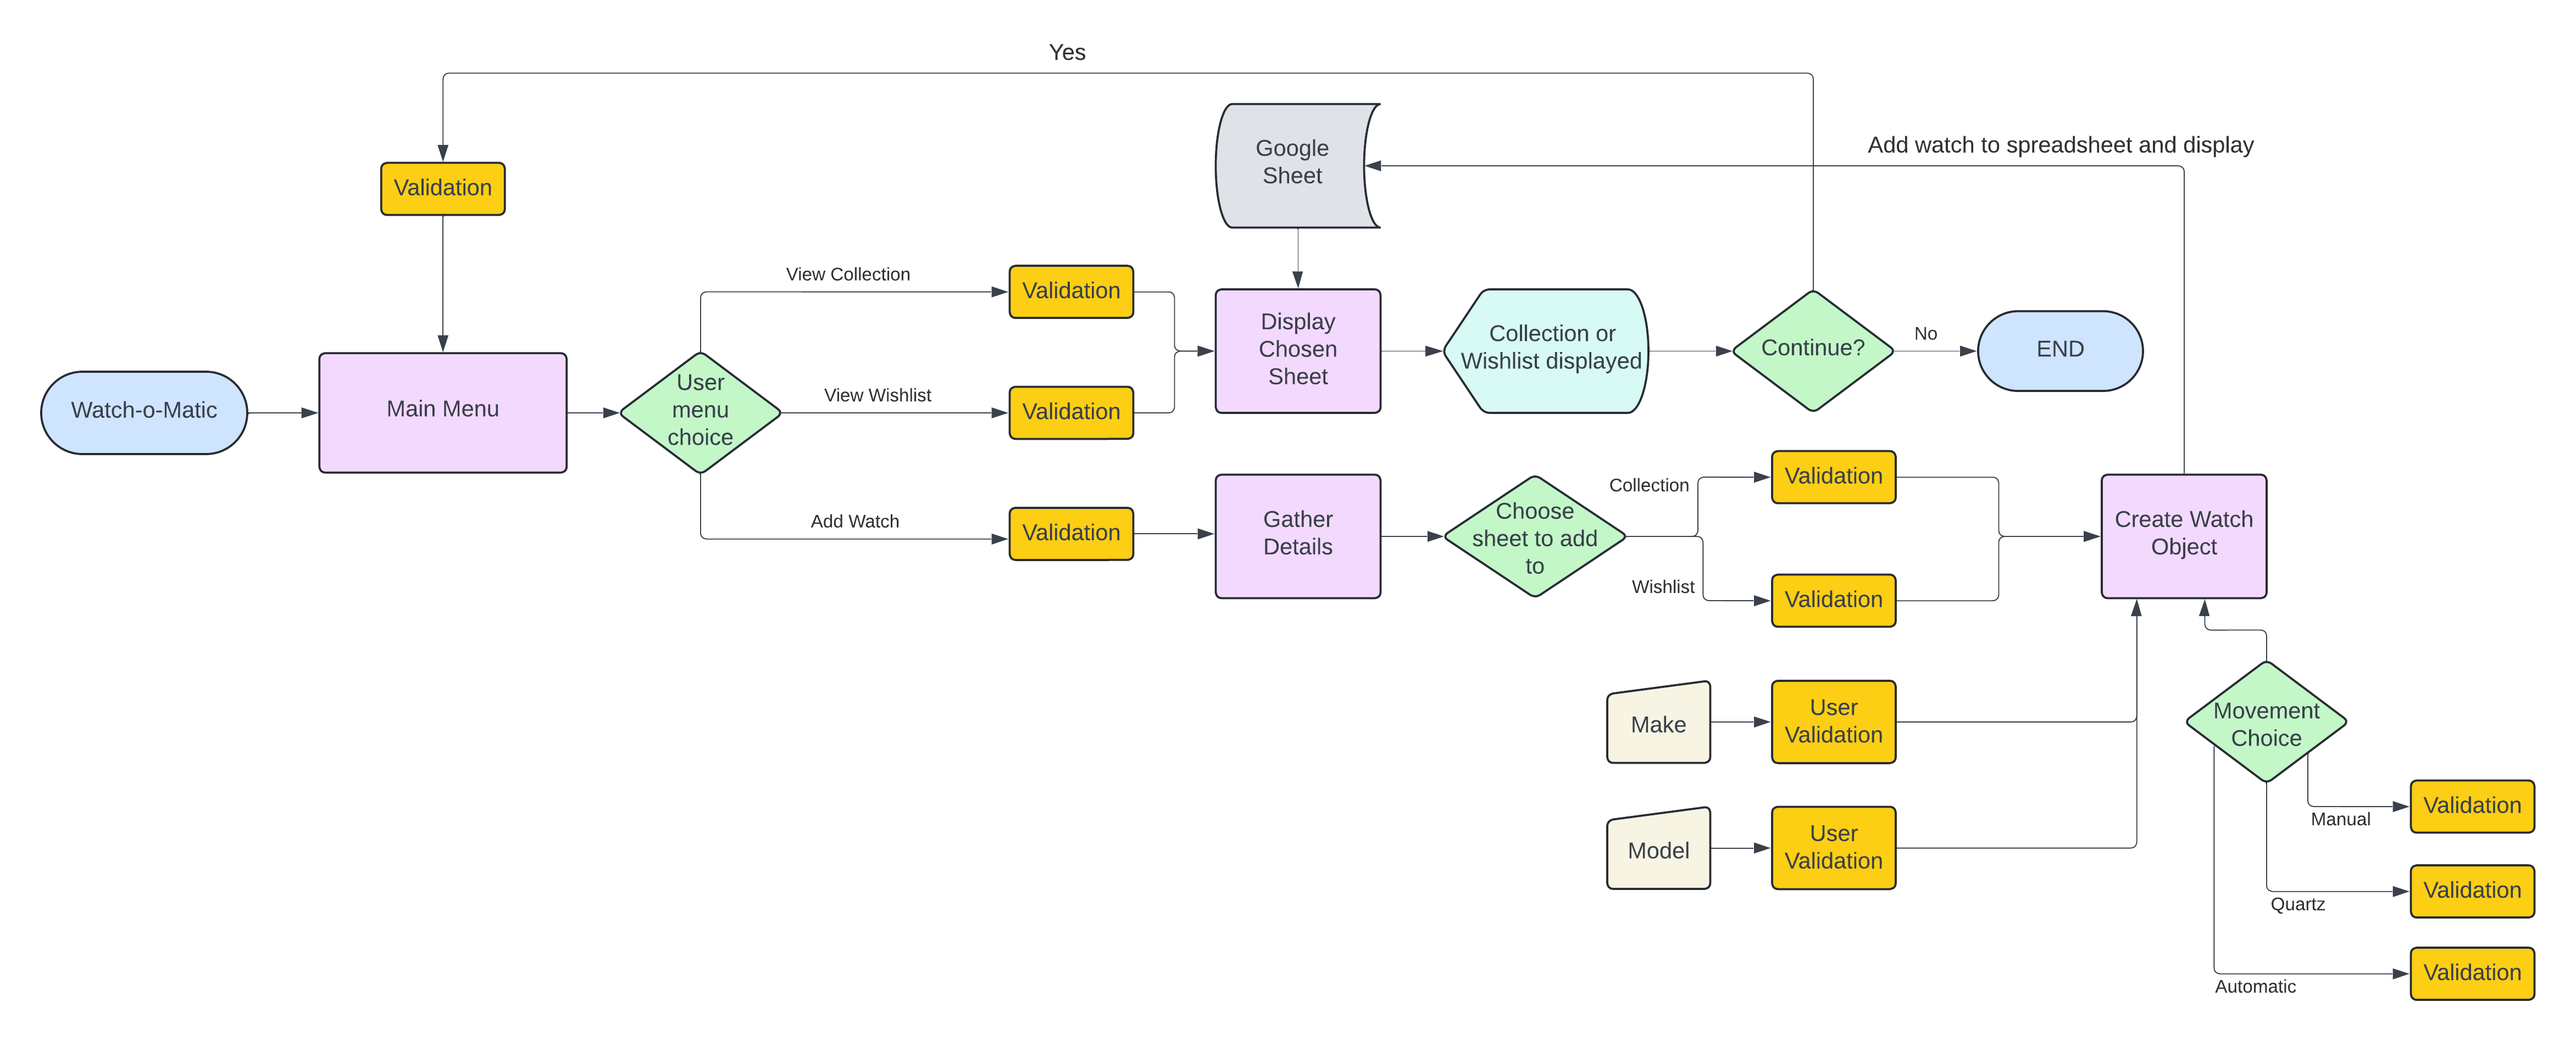
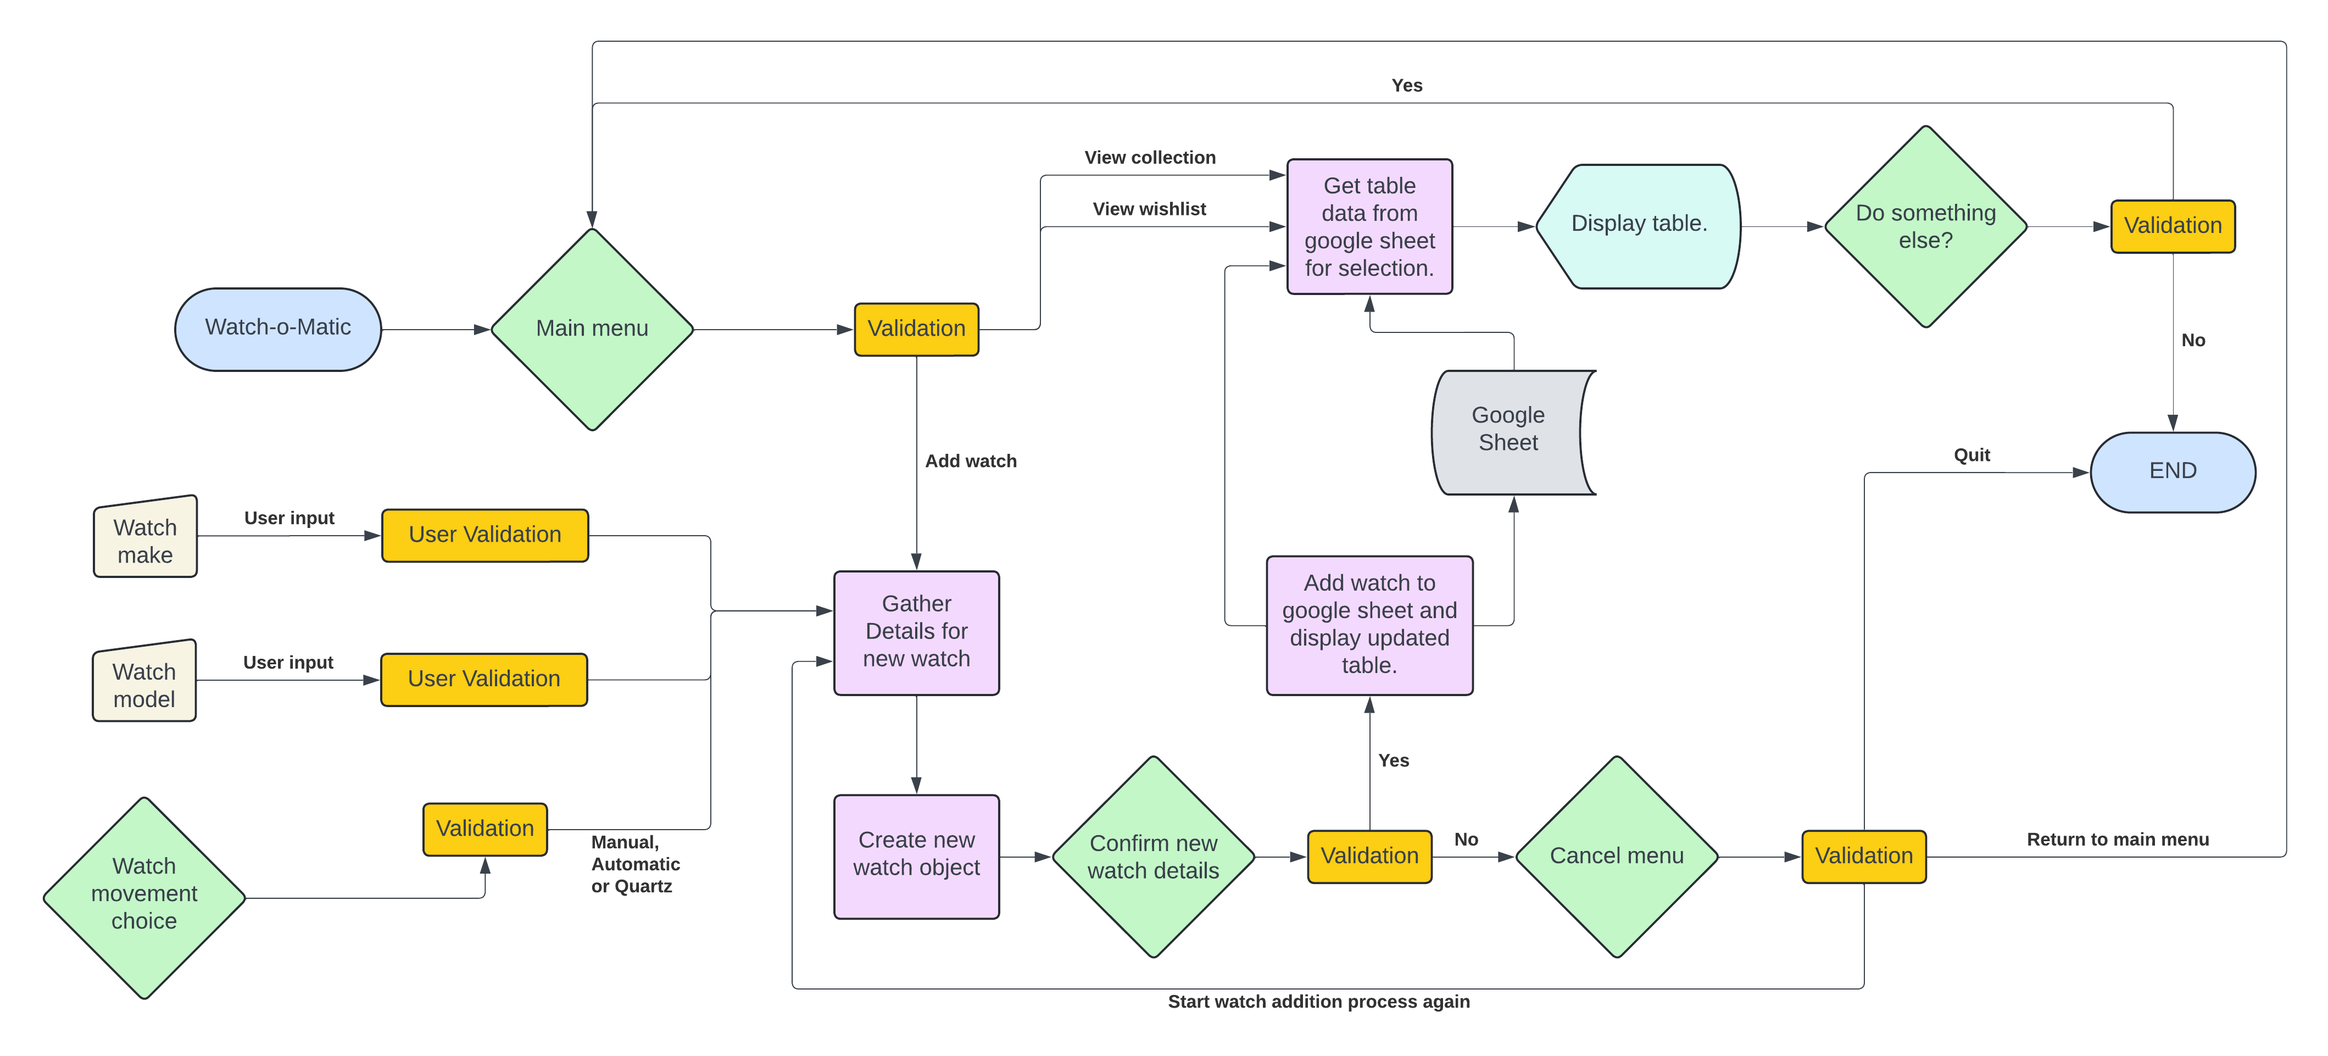
Update README.md with: flowchart info

diff --git a/README.md b/README.md
@@ -140,7 +140,7 @@ I used a flowchart to map out the apps logic and proceeded to code it from there
 
 ## Data Model
 
-### Flowchart
+### Flowcharts
 
 To follow best practice, a flowchart was created for the app's logic,
 and mapped out before coding began using a free version of
@@ -150,11 +150,10 @@ Below is the flowchart of the main process of this Python program. It shows the 
 
 ![screenshot](documentation/lucid/wom_lucid.png)
 
-To follow best practice, a flowchart was created for the app's logic,
-and mapped out before coding began using a free version of
+I also made an interactive version of the flowchart using a free version of
 [Mermaid](https://www.mermaidchart.com/)
 
-Below is the flowchart of the main process of this Python program. It shows the entire cycle of the program.
+Below is the mermaid flowchart of the main process of this Python program. It shows the entire cycle of the program.
 
 ```mermaid
 ---
